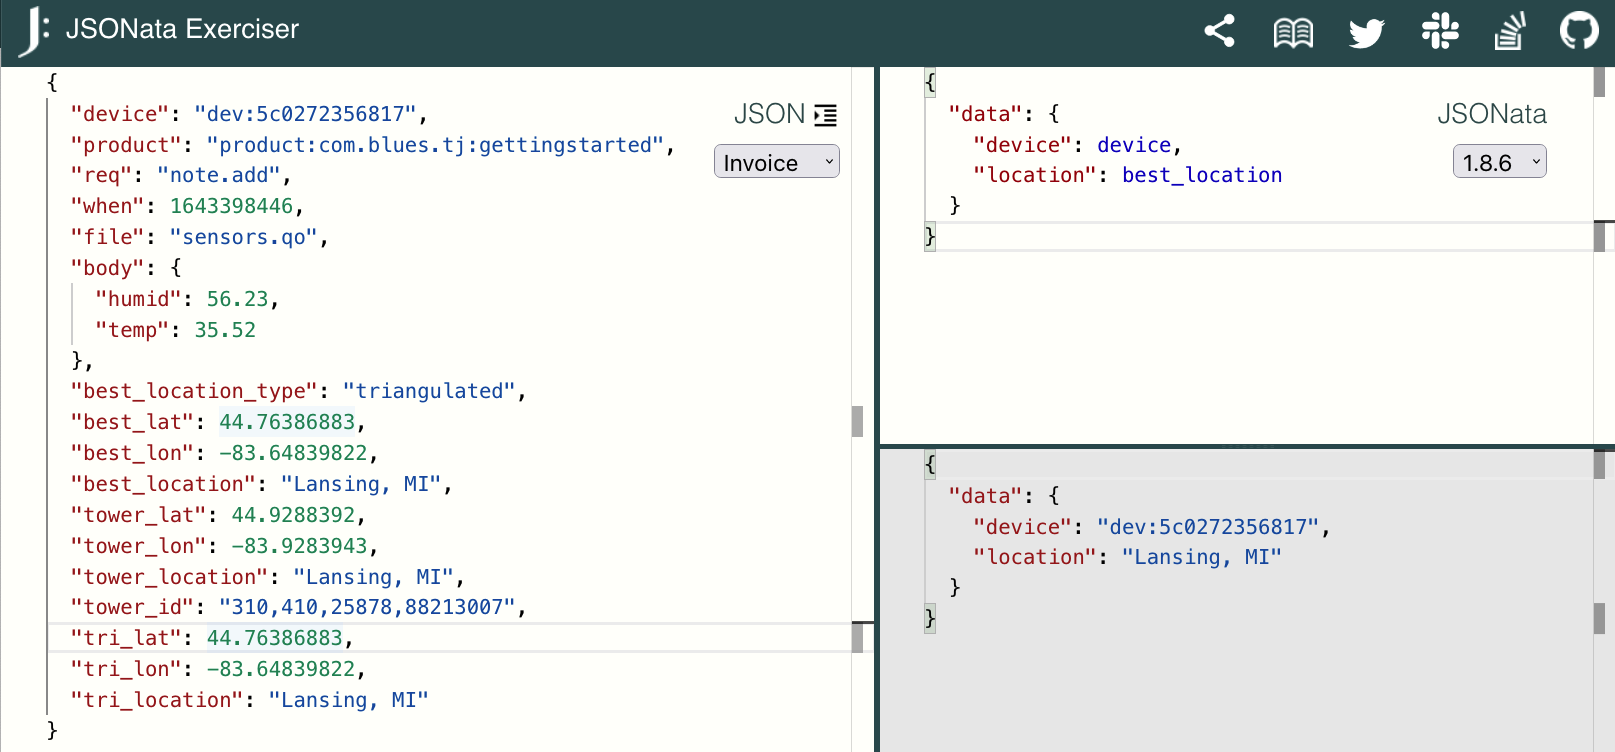
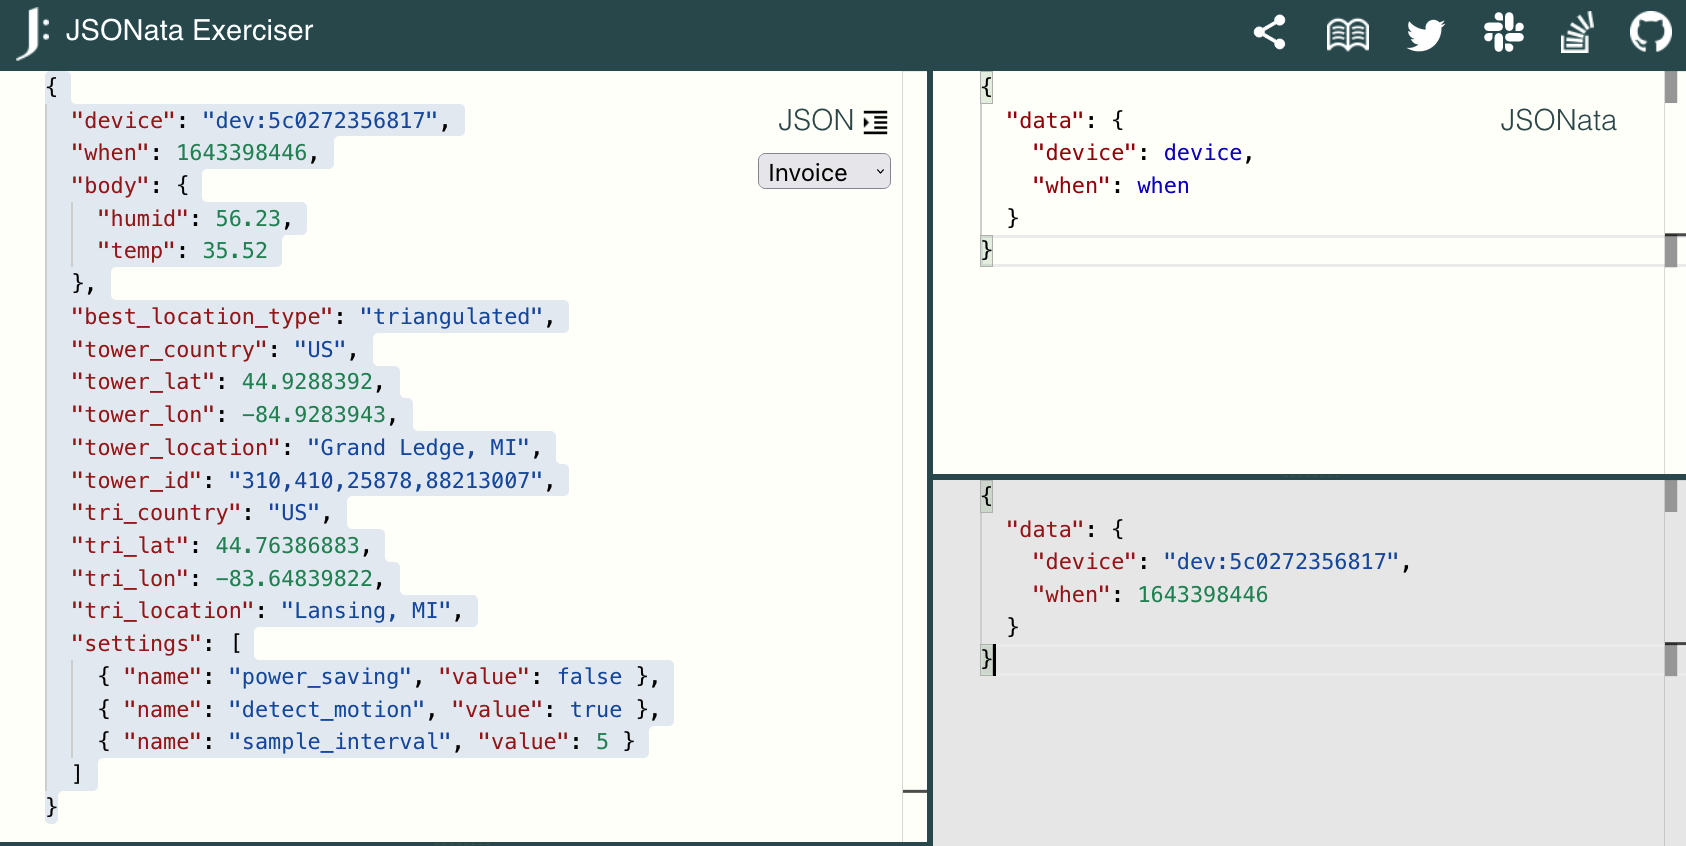
First draft

diff --git a/blues/jsonata/article.md b/blues/jsonata/article.md
@@ -1,4 +1,4 @@
-# A Big List of JSONata Examples
+# 10 Examples to Help You Learn JSONata
 
 JSONata is a JSON query and transformation language. JSONata can do a _lot_, which can make it intimidating to start with. This guide aims to make JSONata easier to use by providing concrete examples of the language in action.
 
@@ -9,25 +9,26 @@ This guide’s examples all take the same input JSON (shown below), and use JSON
 ```json
 {
   "device": "dev:5c0272356817",
-  "product": "product:com.blues.tj:gettingstarted",
-  "req": "note.add",
   "when": 1643398446,
-  "file": "sensors.qo",
   "body": {
     "humid": 56.23,
     "temp": 35.52
   },
   "best_location_type": "triangulated",
-  "best_lat": 44.76386883,
-  "best_lon": -83.64839822,
-  "best_location": "Lansing, MI",
+  "tower_country": "US",
   "tower_lat": 44.9288392,
-  "tower_lon": -83.9283943,
-  "tower_location": "Lansing, MI",
+  "tower_lon": -84.9283943,
+  "tower_location": "Grand Ledge, MI",
   "tower_id": "310,410,25878,88213007",
+  "tri_country": "US",
   "tri_lat": 44.76386883,
   "tri_lon": -83.64839822,
-  "tri_location": "Lansing, MI"
+  "tri_location": "Lansing, MI",
+  "settings": [
+    { "name": "power_saving", "value": false },
+    { "name": "detect_motion", "value": true },
+    { "name": "sample_interval", "value": 5 }
+  ]
 }
 ```
 
@@ -40,7 +41,7 @@ All screenshots in this guide come from [JSONata Exerciser](https://try.jsonata.
 Let’s start simple. Sometimes all you want to do is grab one piece of data out of a JSON object. With JSONata you can do that by just referencing the appropriate property name.
 
 ```
-file
+device
 ```
 
 ![](example-1.1.png)
@@ -88,16 +89,16 @@ The JSONata below creates a JSON object with a new `data` property that includes
 {
   "data": {
     "device": device,
-    "timezone": best_timezone
+    "when": when
   }
 }
 ```
 
 ![](example-4.png)
 
-## 5) Split up a value
+## 5) Using built-in functions
 
-JSONata has several built-in functions that can help you parse data. The example below uses `$split` to break `"tower_id": "310,410,25878,88213007"` into four properties in a new JSON object.
+JSONata has several built-in functions that can help you parse data. The example below uses [JSONata’s `$split` function](https://docs.jsonata.org/string-functions#split) to break `"tower_id": "310,410,25878,88213007"` into four properties in a new JSON object.
 
 ```json
 {
@@ -112,8 +113,108 @@ JSONata has several built-in functions that can help you parse data. The example
 
 ![](example-5.png)
 
-## 6) Adding conditional logic
+> **TIP**: There are dozens of other built-in functions you might want to experiment with, including [`$trim()`](https://docs.jsonata.org/string-functions#trim) or [`$substring()`](https://docs.jsonata.org/string-functions#substring) for working with strings, or [`$round()`](https://docs.jsonata.org/numeric-functions#round), [`$floor()`](https://docs.jsonata.org/numeric-functions#floor), and [`$ceil()`](https://docs.jsonata.org/numeric-functions#ceil) for working with numbers.
 
+## 6) Working with dates and times
+
+JSONata has [several features that help with date/time processing](http://docs.jsonata.org/date-time). Perhaps the most useful of these is [`$now()`](https://docs.jsonata.org/date-time-functions#now), which gives you an easy way to add a timestamp to your JSON output.
+
+```json
+{
+  "timestamp": $now()
+}
 ```
 
+![](example-6.1.png)
+
+You might also find [`$fromMillis()`](https://docs.jsonata.org/date-time-functions#frommillis) useful, as it allows you to convert a millisecond-based time to a formatted string representation.
+
+```json
+{
+  "time": $fromMillis(when * 1000)
+}
 ```
+
+![](example-6.2.png)
+
+> **TIP**: You can control the format of the `$fromMillis()` output with its optional `picture` argument. See the [`$fromMillis()` documentation](https://docs.jsonata.org/date-time-functions#frommillis) for more information.
+
+## 7) Adding conditional logic
+
+JSONata also allows you to perform conditional checks using the ternary operator. For example, the JSONata below selects either `tri_location` or `tower_location` depending on the value of `best_location_type`.
+
+```
+{
+  "location": best_location_type = "triangulated" ? tri_location : tower_location
+}
+```
+
+![](example-7.png)
+
+## 8) Creating functions
+
+If your logic is more advanced you can [create reusable functions directly in JSONata](https://docs.jsonata.org/programming#defining-a-function).
+
+For example, the code below defines a custom `$localizeTemperature` function, and uses it to convert temperature values to Fahrenheit or Celsius depending on the country.
+
+```json
+(
+  $localizeTemperature := function($degrees_celcius, $country) {(
+    $conversion_ratio := (9 / 5);
+    ($country = "US")
+      ? (($degrees_celcius * $conversion_ratio) + 32)
+      : $degrees_celcius;
+  )};
+  {
+    "temp": $localizeTemperature(body.temp, best_country)
+  }
+)
+```
+
+![](example-8.png)
+
+See [JSONata’s function documentation](https://docs.jsonata.org/programming#defining-a-function) for more information.
+
+## 9) Sorting and filter data
+
+JSONata provides an [order-by operator](https://docs.jsonata.org/path-operators#---order-by) that allows you to sort an array of JSON data. For example, the code below sorts the `settings` array by its `name` property.
+
+```json
+{
+  "settings": settings^(name)
+}
+```
+
+![](example-9.1.png)
+
+The [filter operator](https://docs.jsonata.org/path-operators#---filter) allows you to select items in an array that match a provided condition. For example, the code below selects all objects in `settings` that have a `name` of `"power_saving"`.
+
+```json
+{
+  "settings": settings[name = 'power_saving']
+}
+```
+
+![](example-9.2.png)
+
+## 10) Blues extensions to JSONata
+
+In case all of these examples weren’t enough, JSONata also includes a [series of extension APIs](https://docs.jsonata.org/embedding-extending). Here at Blues we use JSONata a lot, as we find it a handy way to manipulate JSON before [routing data to cloud services](https://dev.blues.io/guides-and-tutorials/routing-data-to-cloud/general-http-https/), so we’ve extended the language with a few new features.
+
+For example, we allow our users to refer to [environment variables](https://dev.blues.io/guides-and-tutorials/notecard-guides/understanding-environment-variables/) using the `$` operator. For example, to read an environment variable named `interval` you can use `$interval` in your JSONata expression.
+
+```json
+{
+  "interval": $interval
+}
+```
+
+We also offer a custom function named `$doNotRoute()` that allows you to conditionally route your data to a service based on a variable or calculation. For example, the code only routes data if a `location` exists.
+
+```json
+($result := ($exists(location)) ? $result : $doNotRoute();)
+```
+
+## Wrapping up
+
+Hopefully you’ve found these examples useful as you’re trying to learn JSONata. For more, check out [JSONata’s extensive documentation site](https://docs.jsonata.org/overview.html).
